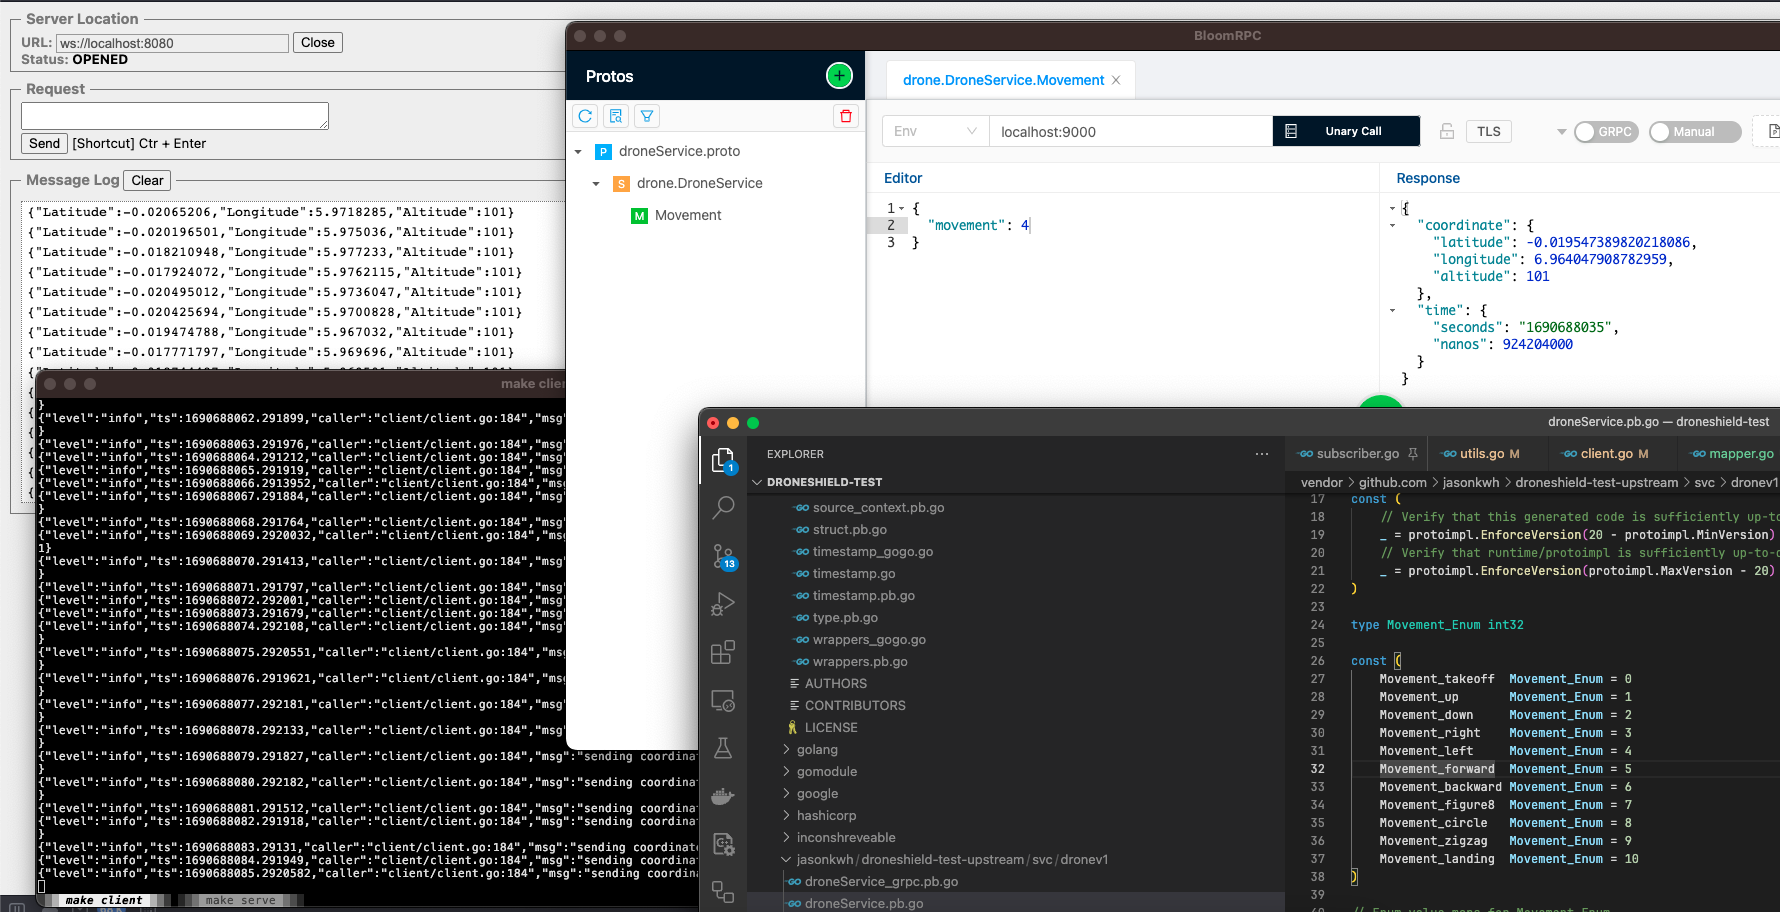
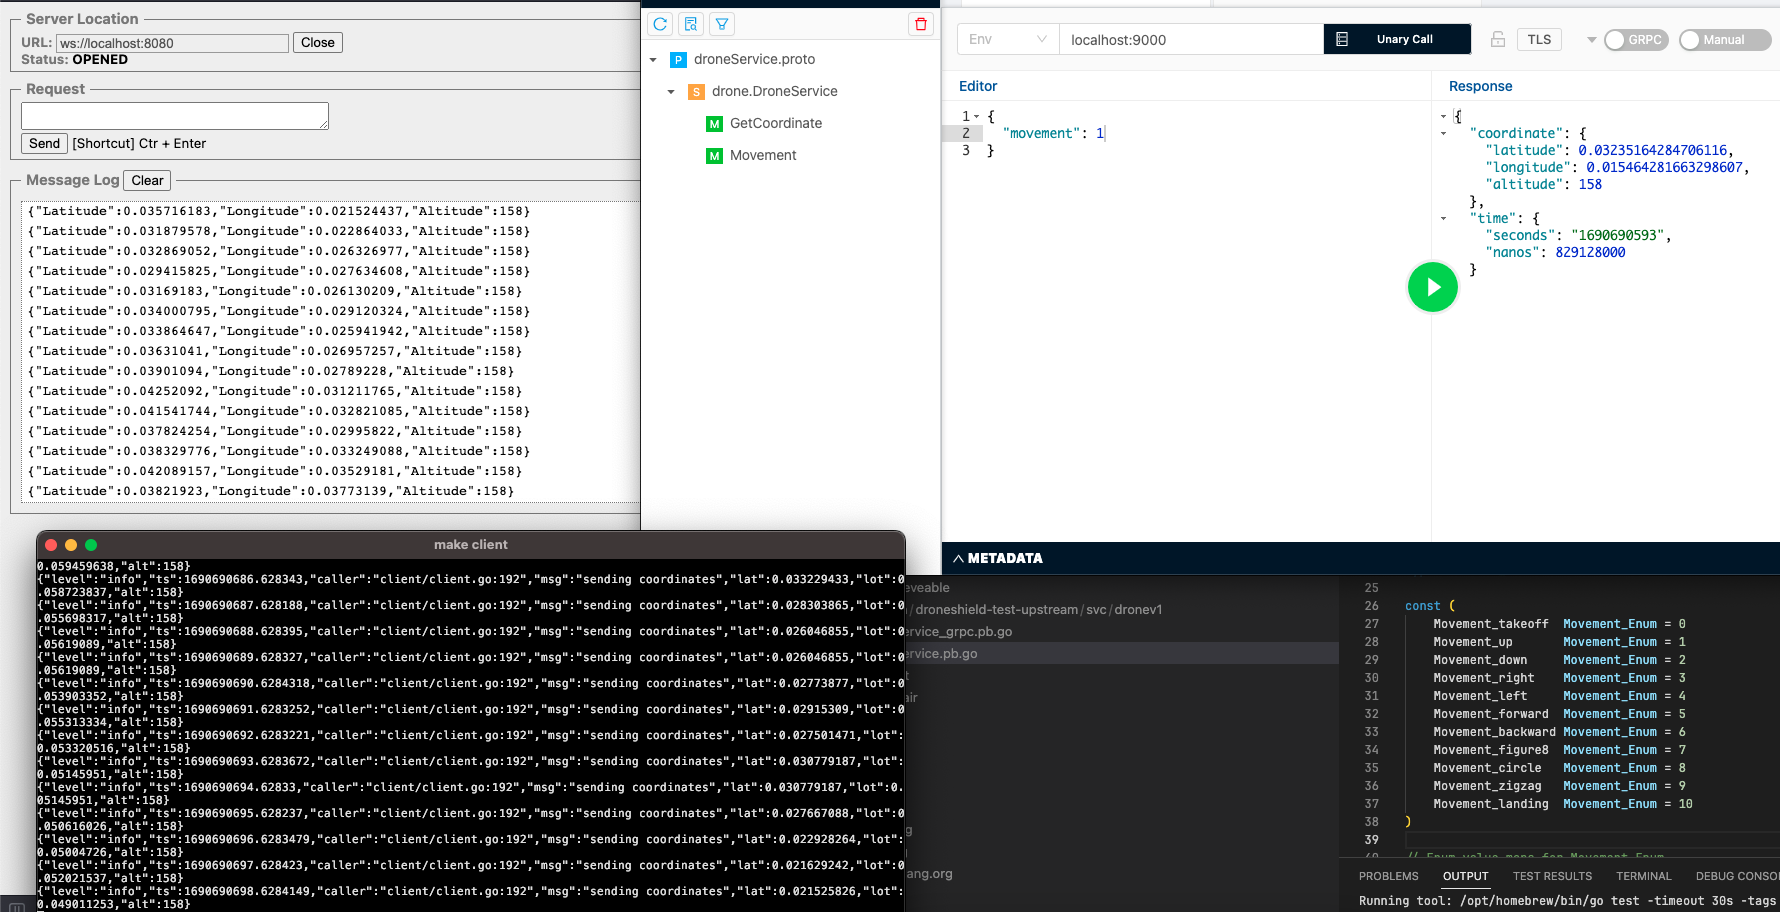
add GetCoordinate method

diff --git a/internal/client/client.go b/internal/client/client.go
@@ -80,17 +80,14 @@ func NewClient(rcfg config.RedisConfig, scfg config.ServerConfig, windSimulation
 	return cl, nil
 }
 
-func (cl *client) Movement(ctx context.Context, r *dronev1.MovementRequest) (*dronev1.MovementResponse, error) {
-	cl.zl.Info("received Movement() call")
-
-	// set drone movement
-	cl.setMovement(mapMovement(r.Movement))
+func (cl *client) GetCoordinate(ctx context.Context, r *dronev1.GetCoordinateRequest) (*dronev1.GetCoordinateResponse, error) {
+	cl.zl.Info("received GetCoordinate() call")
 
 	cl.lock.Lock()
 	coord := cl.coordinate
 	cl.lock.Unlock()
 
-	return &dronev1.MovementResponse{
+	return &dronev1.GetCoordinateResponse{
 		Coordinate: &dronev1.Coordinate{
 			Latitude:  coord.Latitude,
 			Longitude: coord.Longitude,
@@ -98,6 +95,16 @@ func (cl *client) Movement(ctx context.Context, r *dronev1.MovementRequest) (*dr
 		},
 		Time: timestamppb.Now(),
 	}, nil
+}
+
+func (cl *client) Movement(ctx context.Context, r *dronev1.MovementRequest) (*dronev1.GetCoordinateResponse, error) {
+	cl.zl.Info("received Movement() call")
+
+	// set drone movement
+	cl.setMovement(mapMovement(r.Movement))
+
+	// call GetCoordinate()
+	return cl.GetCoordinate(ctx, &dronev1.GetCoordinateRequest{})
 }
 
 func (cl *client) setMovement(move model.Movement) {
